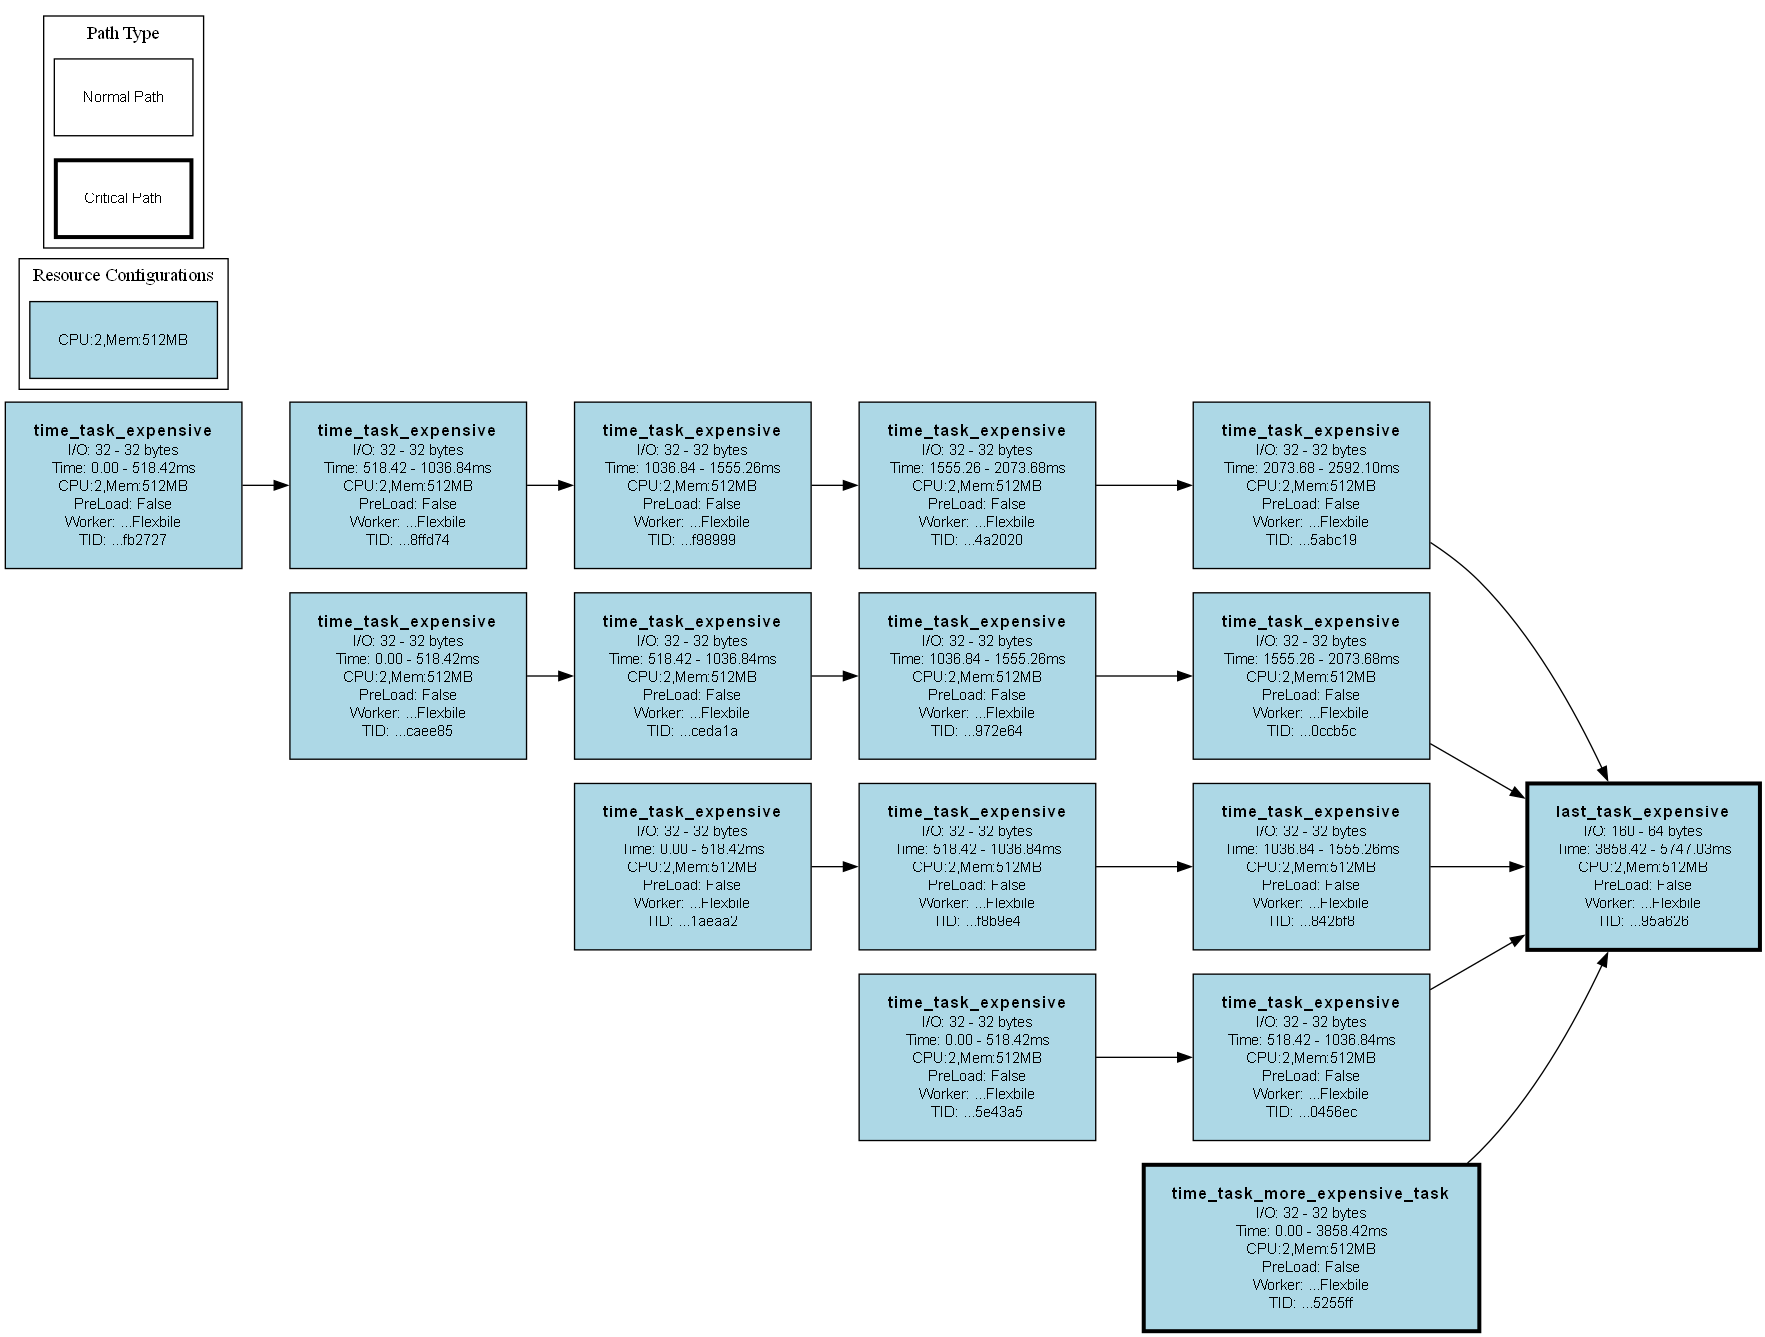
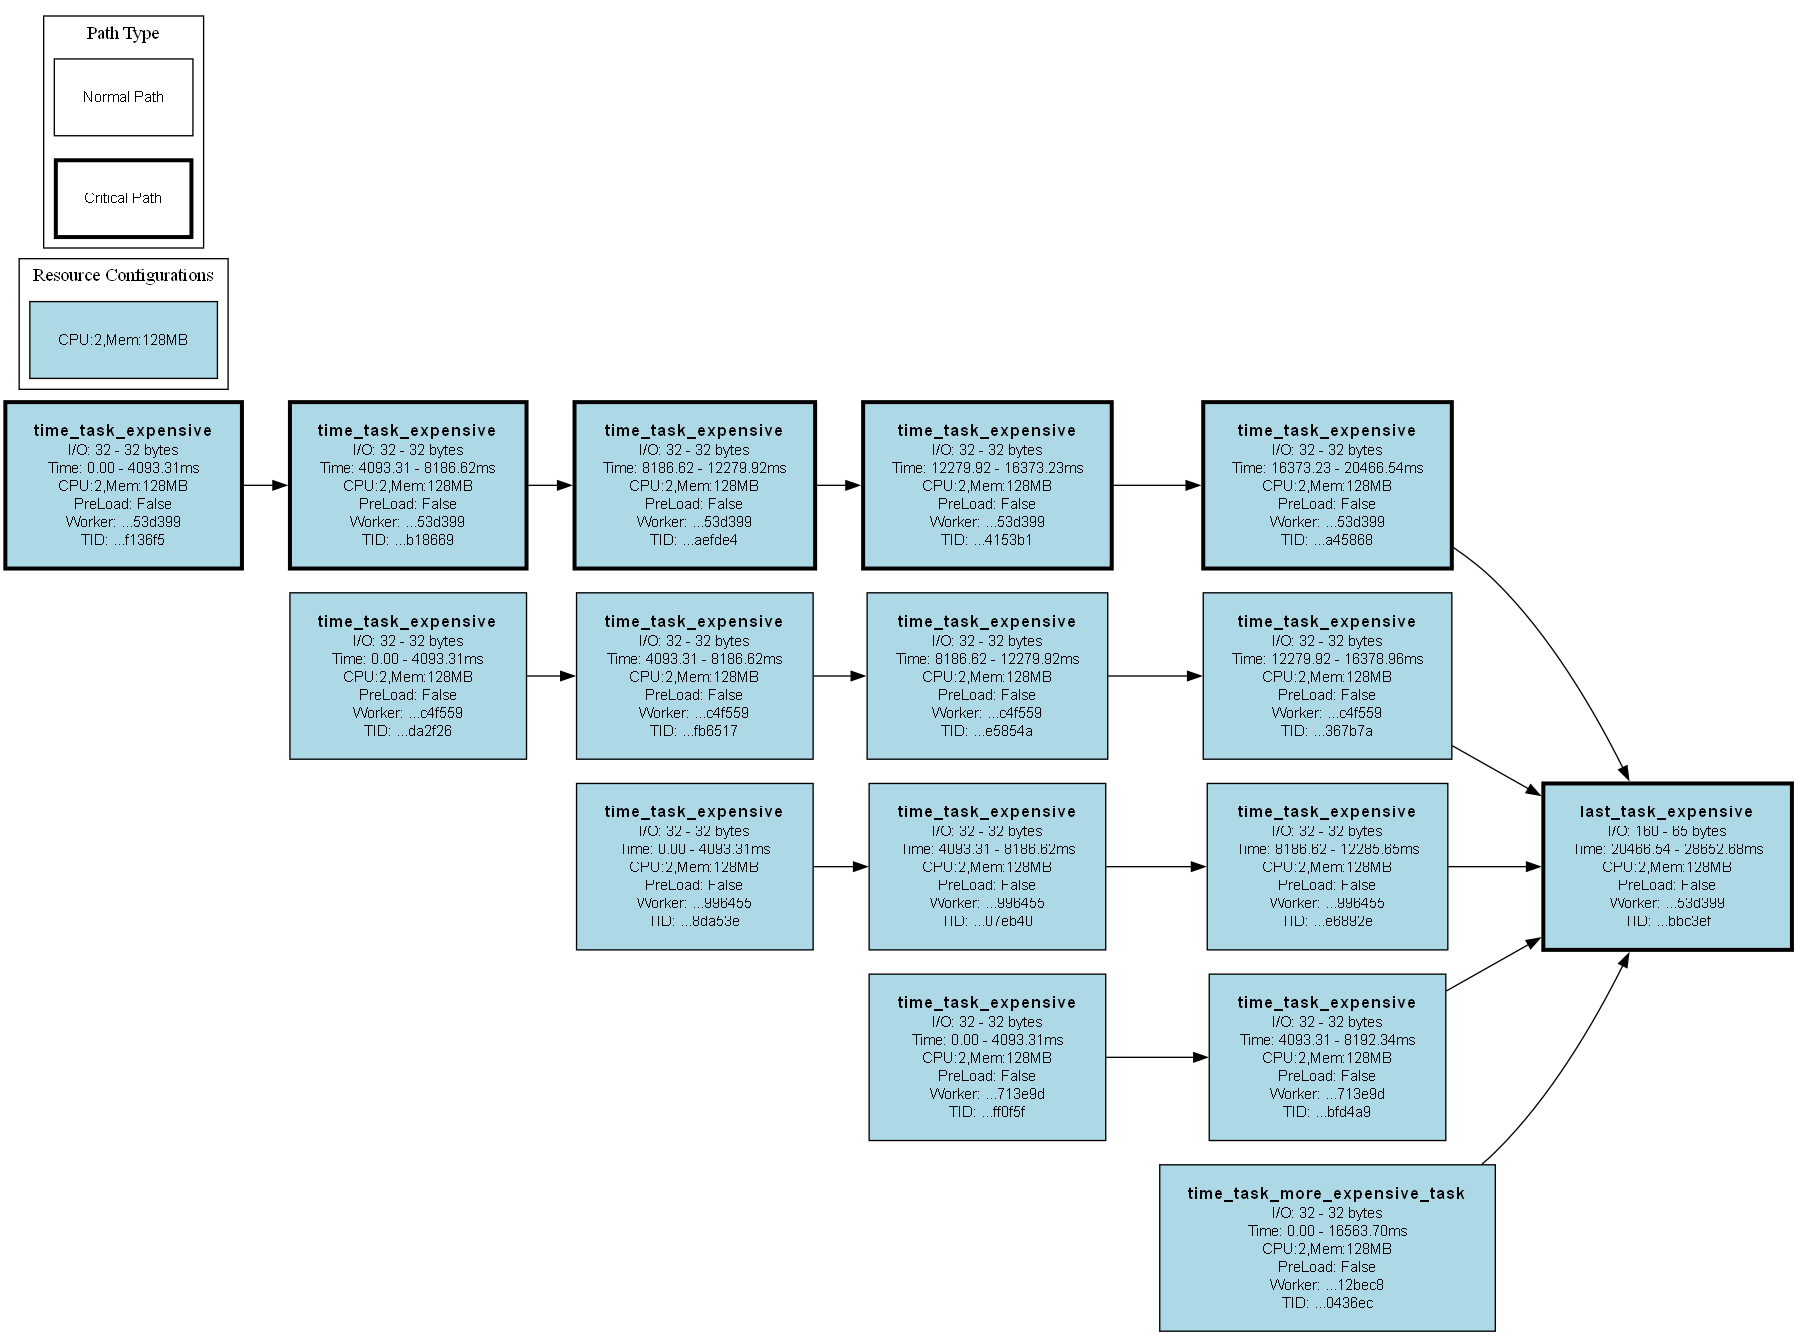
improve the execution time prediction function: - when we don't have enough samples, we use a non-linear relationship between baseline/normalization memory and target memory instead of linear (producing more accurate results) - when we have enough samples (>= 3 for testing), we only use those sample

diff --git a/src/planning/metadata_access/metadata_access.py b/src/planning/metadata_access/metadata_access.py
@@ -14,8 +14,8 @@ class MetadataAccess:
     cached_upload_speeds: list[float] = [] # bytes/ms
     cached_download_speeds: list[float] = [] # bytes/ms
     cached_io_ratios: dict[str, list[float]] = {} # i/o for each function_name
-    # Value: dict[memory_mb, list[normalized_execution_time_ms / input_size_bytes]]
-    cached_execution_time_per_byte: dict[str, list[float]] = {}
+    # Value: dict[function_name, list[tuple[normalized_execution_time_ms / input_size_bytes, cpus, memory_mb]]]
+    cached_execution_time_per_byte: dict[str, list[tuple[float, float, int]]] = {}
 
     _cached_prediction_data_transfer_times: dict[str, float] = {}
     _cached_prediction_execution_times: dict[str, float] = {}
@@ -51,7 +51,12 @@ class MetadataAccess:
             if metrics.worker_resource_configuration:
                 if metrics.normalized_execution_time_per_input_byte_ms == 0: continue
                 if function_name not in self.cached_execution_time_per_byte: self.cached_execution_time_per_byte[function_name] = []
-                self.cached_execution_time_per_byte[function_name].append(metrics.normalized_execution_time_per_input_byte_ms)
+                # Store tuple of (normalized_time, cpus, memory_mb)
+                self.cached_execution_time_per_byte[function_name].append((
+                    metrics.normalized_execution_time_per_input_byte_ms,
+                    metrics.worker_resource_configuration.cpus,
+                    metrics.worker_resource_configuration.memory_mb
+                ))
 
             # I/O RATIO
             if function_name not in self.cached_io_ratios:
@@ -136,23 +141,41 @@ class MetadataAccess:
         """
         if sla != "avg" and (sla.value < 0 or sla.value > 100): raise ValueError("SLA must be 'avg' or between 0 and 100")
         if function_name not in self.cached_execution_time_per_byte: raise ValueError(f"Function {function_name} not found in metadata")
-        normalized_ms_per_byte_for_function = self.cached_execution_time_per_byte[function_name]
-        if len(normalized_ms_per_byte_for_function) == 0: raise ValueError(f"No data available for function {function_name}")
-
+        
         prediction_key = f"{function_name}-{input_size}-{resource_config}-{sla}"
         if allow_cached and prediction_key in self._cached_prediction_execution_times: 
             return self._cached_prediction_execution_times[prediction_key]
         
-        if sla == "avg":
-            normalized_ms_per_byte = np.mean(normalized_ms_per_byte_for_function)
+        # Get all samples for this function
+        all_samples = self.cached_execution_time_per_byte[function_name]
+        if len(all_samples) == 0: raise ValueError(f"No data available for function {function_name}")
+        
+        # Filter samples by exact resource match
+        matching_samples = [
+            normalized_time for normalized_time, cpus, memory_mb in all_samples
+            if cpus == resource_config.cpus and memory_mb == resource_config.memory_mb
+        ]
+
+        logger.info(f"Found {len(matching_samples)} exact resource matches for function {function_name}")
+        
+        if len(matching_samples) < 3:
+            # While we don't have enough samples using the same resources, use an approximation formula
+            all_normalized_times = [normalized_time for normalized_time, _, _ in all_samples]
+            if sla == "avg": normalized_ms_per_byte = np.mean(all_normalized_times)
+            else: normalized_ms_per_byte = np.percentile(all_normalized_times, 100 - sla.value)
+            if normalized_ms_per_byte <= 0: raise ValueError(f"No data available for function {function_name}")
+            # - 1/2 (0.5x) → ~1.5x execution time | 1/4 (0.25x) → ~2.1x execution time | 2x (2x) → ~0.66x execution time
+            # MEMORY SCALING EXPONENT (current value: 0.6)
+            # At 1.0 = pure inverse relationship (half memory = double time)
+            # At 0.0 = memory has no effect on execution time
+            res = normalized_ms_per_byte * input_size * (BASELINE_MEMORY_MB / resource_config.memory_mb) ** 0.6 # Non-linear memory factor
         else:
-            if sla.value < 0 or sla.value > 100:
-                raise ValueError("SLA must be between 0 and 100")
-            normalized_ms_per_byte = np.percentile(normalized_ms_per_byte_for_function, 100 - sla.value)
+            # When we enough samples using the same resources, use only those samples and a linear memory relationship
+            if sla == "avg": normalized_ms_per_byte = np.mean(matching_samples)
+            else: normalized_ms_per_byte = np.percentile(matching_samples, 100 - sla.value)
+            if normalized_ms_per_byte <= 0: raise ValueError(f"No data available for function {function_name}")
+            res = normalized_ms_per_byte * input_size * (BASELINE_MEMORY_MB / resource_config.memory_mb) # Linear memory factor
         
-        if normalized_ms_per_byte <= 0: raise ValueError(f"No data available for function {function_name}")
-        
-        res = normalized_ms_per_byte * input_size * (BASELINE_MEMORY_MB / resource_config.memory_mb)
         self._cached_prediction_execution_times[prediction_key] = res # type: ignore
         return res # type: ignore
 

diff --git a/_examples/original/dagforpredictions_expensive_computations.py b/_examples/original/dagforpredictions_expensive_computations.py
@@ -32,7 +32,7 @@ dockerWorkerConfig = DockerWorker.Config(
     intermediate_storage_config=redis_intermediate_storage_config,
     metrics_storage_config=MetricsStorage.Config(storage_config=redis_metrics_storage_config),
     planner_config=SimplePlannerAlgorithm.Config(
-        sla=Percentile(value=80),
+        sla="avg",
         all_flexible_workers=False,
         worker_resource_configuration=TaskWorkerResourceConfiguration(cpus=2, memory_mb=512),
         # worker_resource_configuration=TaskWorkerResourceConfiguration(cpus=2, memory_mb=256),

diff --git a/src/planning/simple_planner_algorithm.py b/src/planning/simple_planner_algorithm.py
@@ -54,7 +54,7 @@ class SimplePlannerAlgorithm(AbstractDAGPlanner):
             resource_config = self.config.worker_resource_configuration.clone()
             node.add_annotation(resource_config)
             
-            if self.config.all_flexible_workers:
+            if not self.config.all_flexible_workers:
                 if len(node.upstream_nodes) == 0:
                     # Give each root node a unique worker id
                     resource_config.worker_id = uuid.uuid4().hex

diff --git a/TODO.md b/TODO.md
@@ -1,15 +1,8 @@
 [ISSUE] Predictions made with resources diff. from the BASELINE for normalization (512mb) are very off
     e.g., 512 mb real time ~= 8-10s | 256 real time ~= 12-14s (but predicted is 24s)
-    because the normalization is linear, assumes that the code will improve linearly as resources change
-    [POSSIBLE_SOLUTION?]
-        - Store task_execution_metrics for each resource config (besides the normalized metrics)
-        - Change the way the normalized metrics are stored to not be linear and test it with 512 vs 256
-        - If we don't have metrics for a given resource config OR below a samples threshold (e.g., 5):
-            - use the normalized current method
-        - Else
-            - make prediction based on samples that used the exact same memory
-            (drawback: before running a task with X memory we won't make accurate predictions about it)
-        - Do the same for `TaskOutputMetrics` and `TaskInputMetrics` normalized fields
+    - issue: now predicts lower values even if previous run took longer than avg
+        on the `approximation path` only
+    - Do the same for `TaskOutputMetrics` and `TaskInputMetrics` normalized fields
 
 [ISSUE] Planners predictions are not very accurate with reality!
     1 => Experiment with simple planner (change resource configs, then change flexible workers to struct workers). run multiple times
@@ -90,6 +83,9 @@ PIPE STORAGE OPERATIONS WHERE POSSIBLE:
     [BUG] (could use the individual task logs to debug this)
     - Sometimes, on some workflows, ALL workers exit and the client doesn't receive the `sink_task_finished_completed` notification
         check if the final result is even produced or if the worker is exiting too early
+
+[OPTIMIZATION:PLANNING]
+- When predicting normalized stuff, and we don't have enough samples yet, try to use the samples of the closest resource config  (up or odnw)
 
 ---
 
